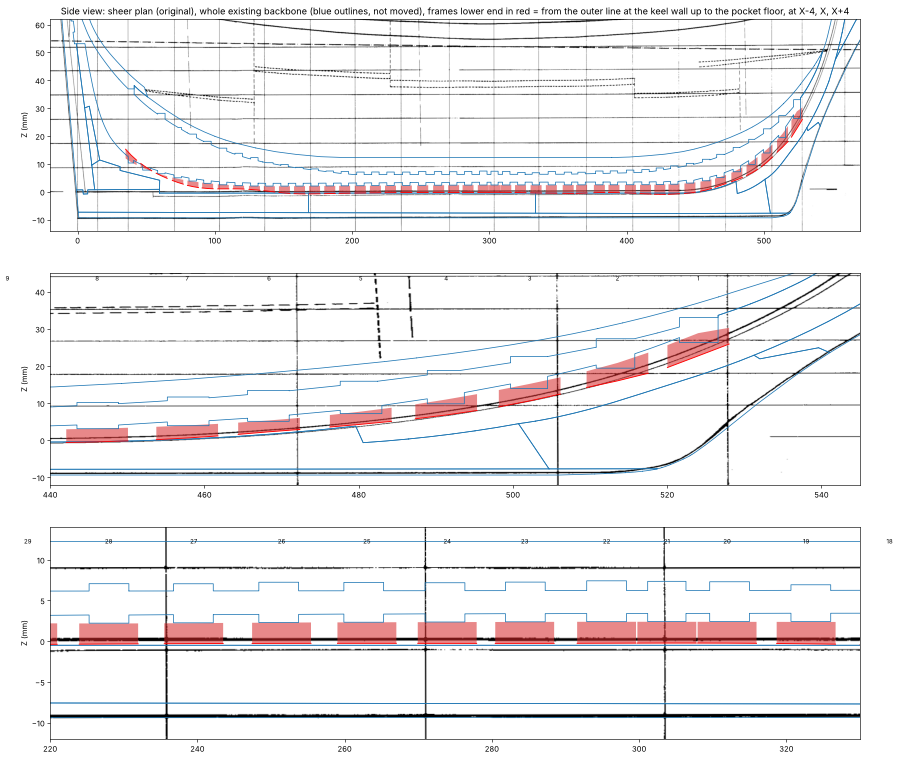
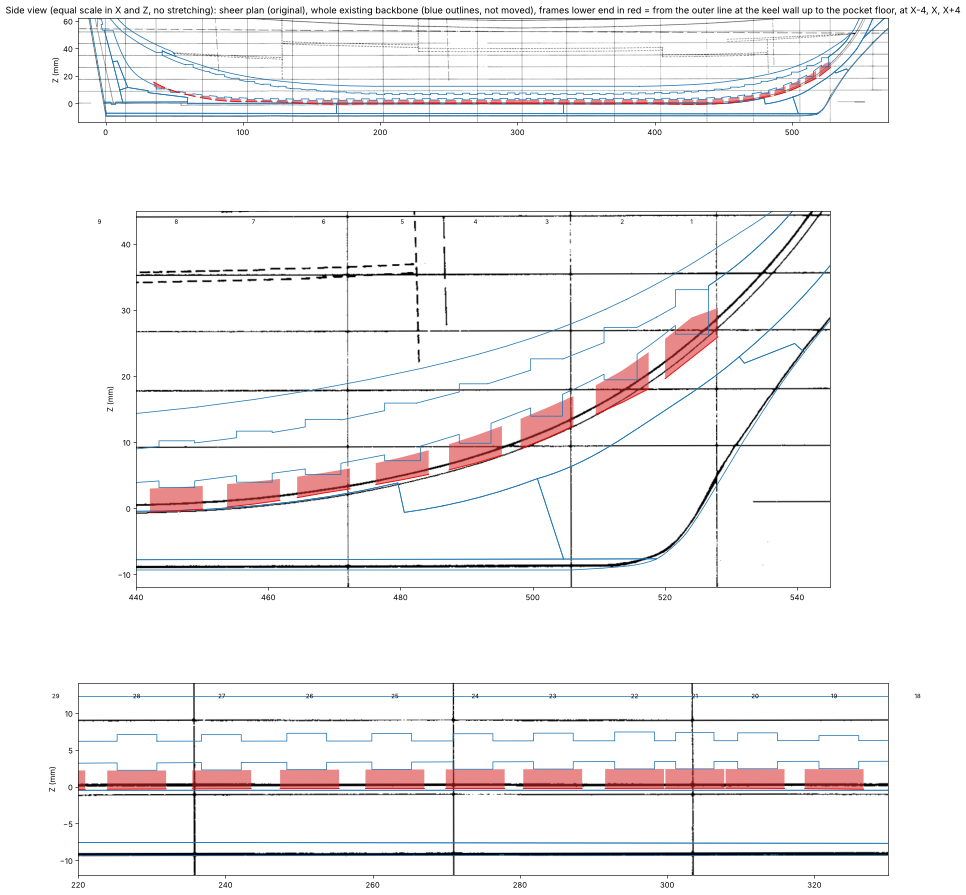
Side view redrawn with equal scale (no stretching)

diff --git a/royal_caroline/py/frames_bottom_side.py b/royal_caroline/py/frames_bottom_side.py
@@ -8,19 +8,12 @@ from shapely.geometry import Polygon
 import matplotlib; matplotlib.use('Agg'); import matplotlib.pyplot as plt
 BB=json.load(open('data/step44_profiles.json'))
 PP={k:Polygon(max(v,key=lambda q:Polygon(q).area)).buffer(0) for k,v in BB.items() if k not in('Split1[1]','Split1[2]','Boss-Extrude4[2]')}
-rows=[]
-for n,X in enumerate(F.XF,1):
-    b=46-n
-    try:
-        for nm,x in (('m',X-4),('c',X),('p',X+4)):
-            p,i=arm(x); rows.append((b,nm,x,i['hull_at_wall'],i['floor'],i['seat']))
-    except Exception as e: print('frame',b,'failed',str(e)[:60])
-json.dump(rows,open('data/frames_bottom_side.json','w'))
+rows=json.load(open('data/frames_bottom_side.json'))      # computed once by the long run
 KX,X0,KZ,ZR=0.08511,-357.14,0.0850,2110.0; img=Image.open('plans/plan_1a_aligned.png').convert('RGB')
-fig,axs=plt.subplots(3,1,figsize=(19,17),gridspec_kw={'height_ratios':[1,1,1]})
+fig,axs=plt.subplots(3,1,figsize=(19,22),gridspec_kw={'height_ratios':[0.5,1.1,0.8]})
 for a,(xl,zl) in zip(axs,(((-20,570),(-14,62)),((440,545),(-12,45)),((220,330),(-12,14)))):
     box=(int((xl[0]-X0)/KX)-5,int(ZR-zl[1]/KZ)-5,int((xl[1]-X0)/KX)+5,int(ZR-zl[0]/KZ)+5); c=img.crop(box)
-    a.imshow(c,extent=(box[0]*KX+X0,box[2]*KX+X0,(ZR-box[3])*KZ,(ZR-box[1])*KZ),aspect='auto')
+    a.imshow(c,extent=(box[0]*KX+X0,box[2]*KX+X0,(ZR-box[3])*KZ,(ZR-box[1])*KZ),aspect='equal')
     for k,pg in PP.items(): a.plot(*pg.exterior.xy,color='tab:blue',lw=1.0)
     byf={}
     for b,nm,x,hk,fl,st in rows: byf.setdefault(b,{})[nm]=(x,hk,fl,st)
@@ -31,6 +24,6 @@ for a,(xl,zl) in zip(axs,(((-20,570),(-14,62)),((440,545),(-12,45)),((220,330),(
             a.plot(xs3,[d[k][1] for k in ('m','c','p')],color='r',lw=1.2)
             if a is not axs[0]: a.text(xs3[1],zl[1]-2,str(b),ha='center',fontsize=8)
     a.set_xlim(*xl); a.set_ylim(*zl); a.set_ylabel('Z (mm)')
-axs[0].set_title('Side view: sheer plan (original), whole existing backbone (blue outlines, not moved), frames lower end in red = from the outer line at the keel wall up to the pocket floor, at X-4, X, X+4')
+axs[0].set_title('Side view (equal scale in X and Z, no stretching): sheer plan (original), whole existing backbone (blue outlines, not moved), frames lower end in red = from the outer line at the keel wall up to the pocket floor, at X-4, X, X+4')
 fig.savefig('qa/frames_bottom_side.png',dpi=55,bbox_inches='tight')
 lo=np.array([(r[0],r[3]) for r in rows if r[1]=='c']); print('lowest frame points: min Z %.2f at frame %d; frame bottoms at Z (builder 1,5,10,23,30,40,45):'%(lo[:,1].min(),lo[lo[:,1].argmin(),0]),[ (int(b),round(float(z),2)) for b,z in lo if int(b) in (1,5,10,23,30,40,45)])
